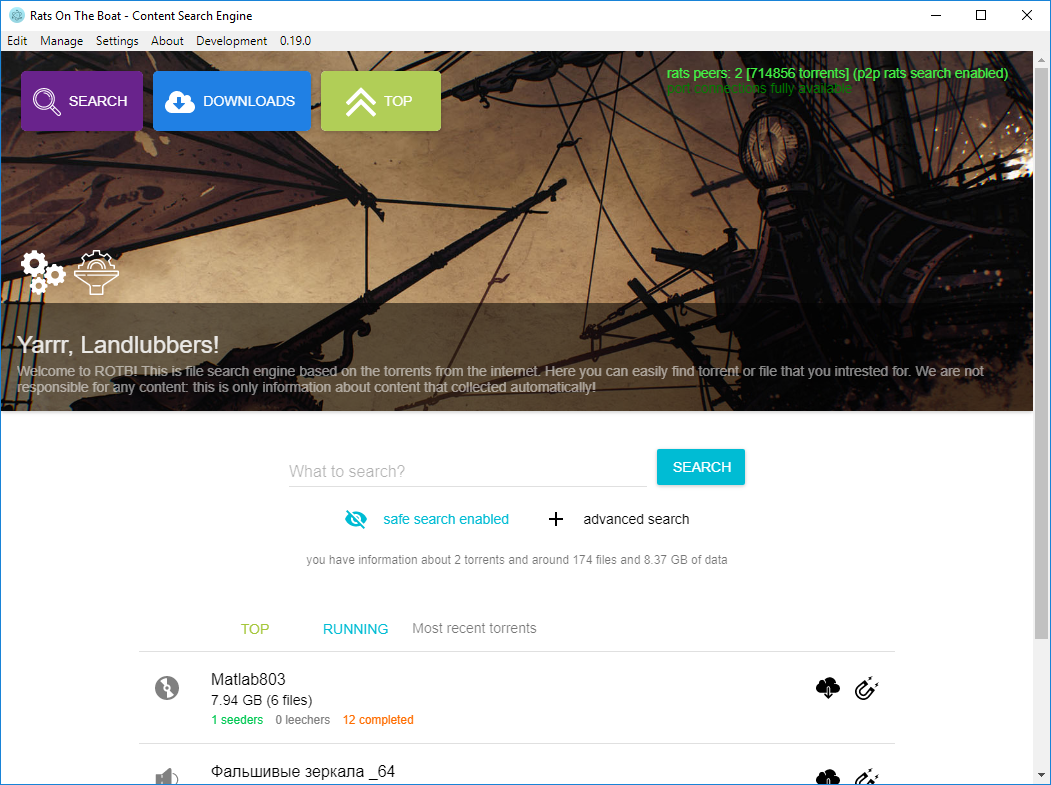
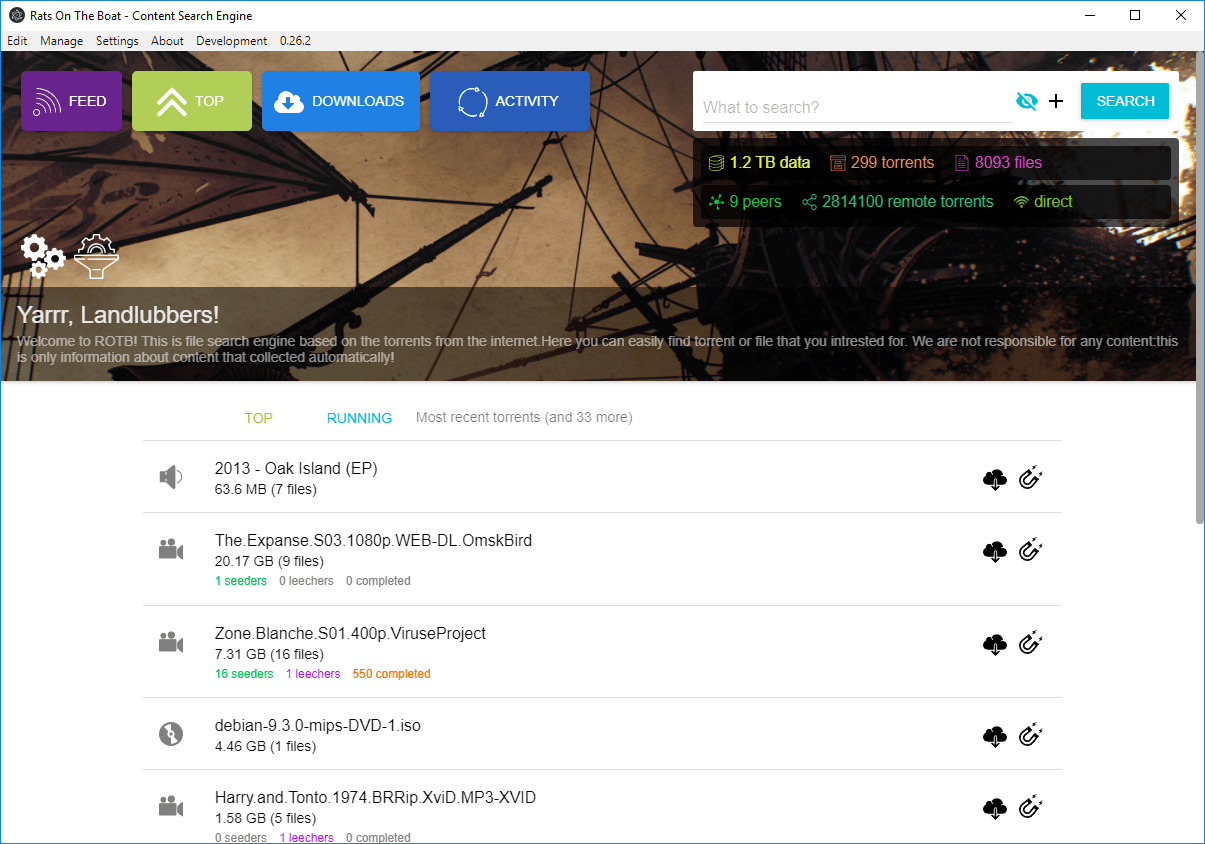
docs(manual): updated usage guide

diff --git a/docs/USAGE.RU.md b/docs/USAGE.RU.md
@@ -4,10 +4,16 @@
 
 [![After start](img/main_no_torrents.png)](https://github.com/DEgITx/rats-search)
 
-После старта, изначально у вас нету базы поиска. Можно использовать готовые базы поиска, предварительно скопировав их в папку с настройками. 
+Программа открывается на вкладке feed (лента). Здесь собраны наиболее актуальные торренты, с которыми были произведены какие-либо действия за последнее время (лайки, комментарии и т.п.). Если лента пуста, нужно просто дождаться синхронизации ее с любого из доступных пиров (о них ниже). 
+
+Изначально у вас нету базы поиска. Можно использовать готовые базы поиска, предварительно скопировав их в папку с настройками, либо дождаться накопления своей базы до достаточного размера, что будет проиходить автоматически при корректных настройках. Либо попросту использовать [распределенный поиск](#Распределенный-поиск).  
 
 Сбор новых торрентов из сети должен начаться автоматически через минуту-две после запуска программы (в случае корректно открытых портов). 
-Это можно отслеживать в поле "you have information about X торрент", а так же в списке поступления торрентов под ним. Скорость сбора торрентов будет увеличиваться с течением времени.
+Это можно отслеживать в поле с торрентами под поиском, а так же в списке поступления торрентов во вкладке activity (активность). 
+
+[![A lot of torrents](img/peer.png)](https://github.com/DEgITx/rats-search)
+
+Скорость сбора торрентов будет увеличиваться с течением времени работы программы. Подробнее о настройке сканера описано в пункте с [настройкой сканера торрентов](#Настройка-сканнера-торрентов).
 
 [![First](img/first_torrent.png)](https://github.com/DEgITx/rats-search)
 
@@ -21,7 +27,7 @@
 
 ### Использование поиска
 
-С течением времени ваша база торрентов естественным путем будет расти, и вы можете искать интересующий вас торрент, используя поиск выше.
+С течением времени ваша база торрентов естественным путем будет расти, и вы можете искать интересующий вас торрент, используя поиск в шапке.
 
 [![A lot of torrents](img/base_big.png)](https://github.com/DEgITx/rats-search)
 
@@ -56,3 +62,11 @@
   * Скорость прохода: 30
   * Использование узлов: 10
   * Сократить количество сетевых пакетов: 450
+
+### Настройка фильтров торрентов
+
+В некоторых случаях вас могут не интересовать торренты определенного типа, размера или языка, и вы хотите чтобы сканер их игнорировал, а ваша база их не сохраняла. Для этого используется отдельное окно настроек фильтров торрентов.
+
+[![Filters](img/filters.png)](https://github.com/DEgITx/rats-search)
+
+Для этого нужно выбрать соотвествующие настройки и сохранить их. После этого в зависимости от надобности можно проверить и очистить базу в соостветствии с новыми настройками.

diff --git a/docs/USAGE.md b/docs/USAGE.md
@@ -4,10 +4,16 @@ After installing the program and running, you should have access to the main pro
 
 [![After start](img/main_no_torrents.png)](https://github.com/DEgITx/rats-search)
 
-After the start, initially you do not have a search database. You can use ready-made search when copy datatabase into the settings folder.
+The program opens on the feed tab by default. In the tab there are most relevant torrents that are collected, with which some actions have been performed recently (recent likes, comments, etc.). If the tab is empty, you just need to wait for it to sync with any of the available peers (see below).
+
+After the start, initially you do not have a search database. You can use ready-made search when copy datatabase into the settings folder, or wait until you have accumulated your database to a sufficient size, which will automatically happen if the settings are correct. Or simply use [distributed search](#distributed-search).
 
 Collection of new torrents from the network should start automatically, in a minute or two after the program is launched (in case of correctly opened ports).
-This can be tracked in the "you have information about X torrent" field, as well as in the list of torrent feeds under it. The speed of the collection of torrents will increase with time.
+This can be monitored in the field with torrents under the search, as well as in the list of torrents in the activity tab.
+
+[![A lot of torrents](img/peer.png)](https://github.com/DEgITx/rats-search)
+
+The speed of the collection of torrents will increase with time. For details on configuring the scanner, refer to the [torrent scanner configuration](#torrent-scanner-settings).
 
 [![First](img/first_torrent.png)](https://github.com/DEgITx/rats-search)
 
@@ -21,7 +27,7 @@ For correct operation, it is necessary that ports 4445 and 4446 (or others speci
 
 ### Using search
 
-Over time, your database of torrents will naturally grow up, and you can search for the torrent you are interested in using the search above.
+Over time, your database of torrents will naturally grow up, and you can search for the torrent you are interested in using the search.
 
 [![A lot of torrents](img/base_big.png)](https://github.com/DEgITx/rats-search)
 
@@ -56,3 +62,11 @@ Recommended values:
   * Scanner walk speed: 30
   * Nodes usage: 10
   * Reduce netowork packages: 450
+
+### Configuring global torrent filters
+
+In some cases, you may not be interested in torrents of a certain type, size or language, and you want the scanner to ignore them, and your database does not save them. To do this, use settings area for the settings of torrent filter
+
+[![Filters](img/filters.png)](https://github.com/DEgITx/rats-search)
+
+To do this, select the appropriate settings and save them. After that, depending on the need, you can check and clean the database in accordance with the new settings.
